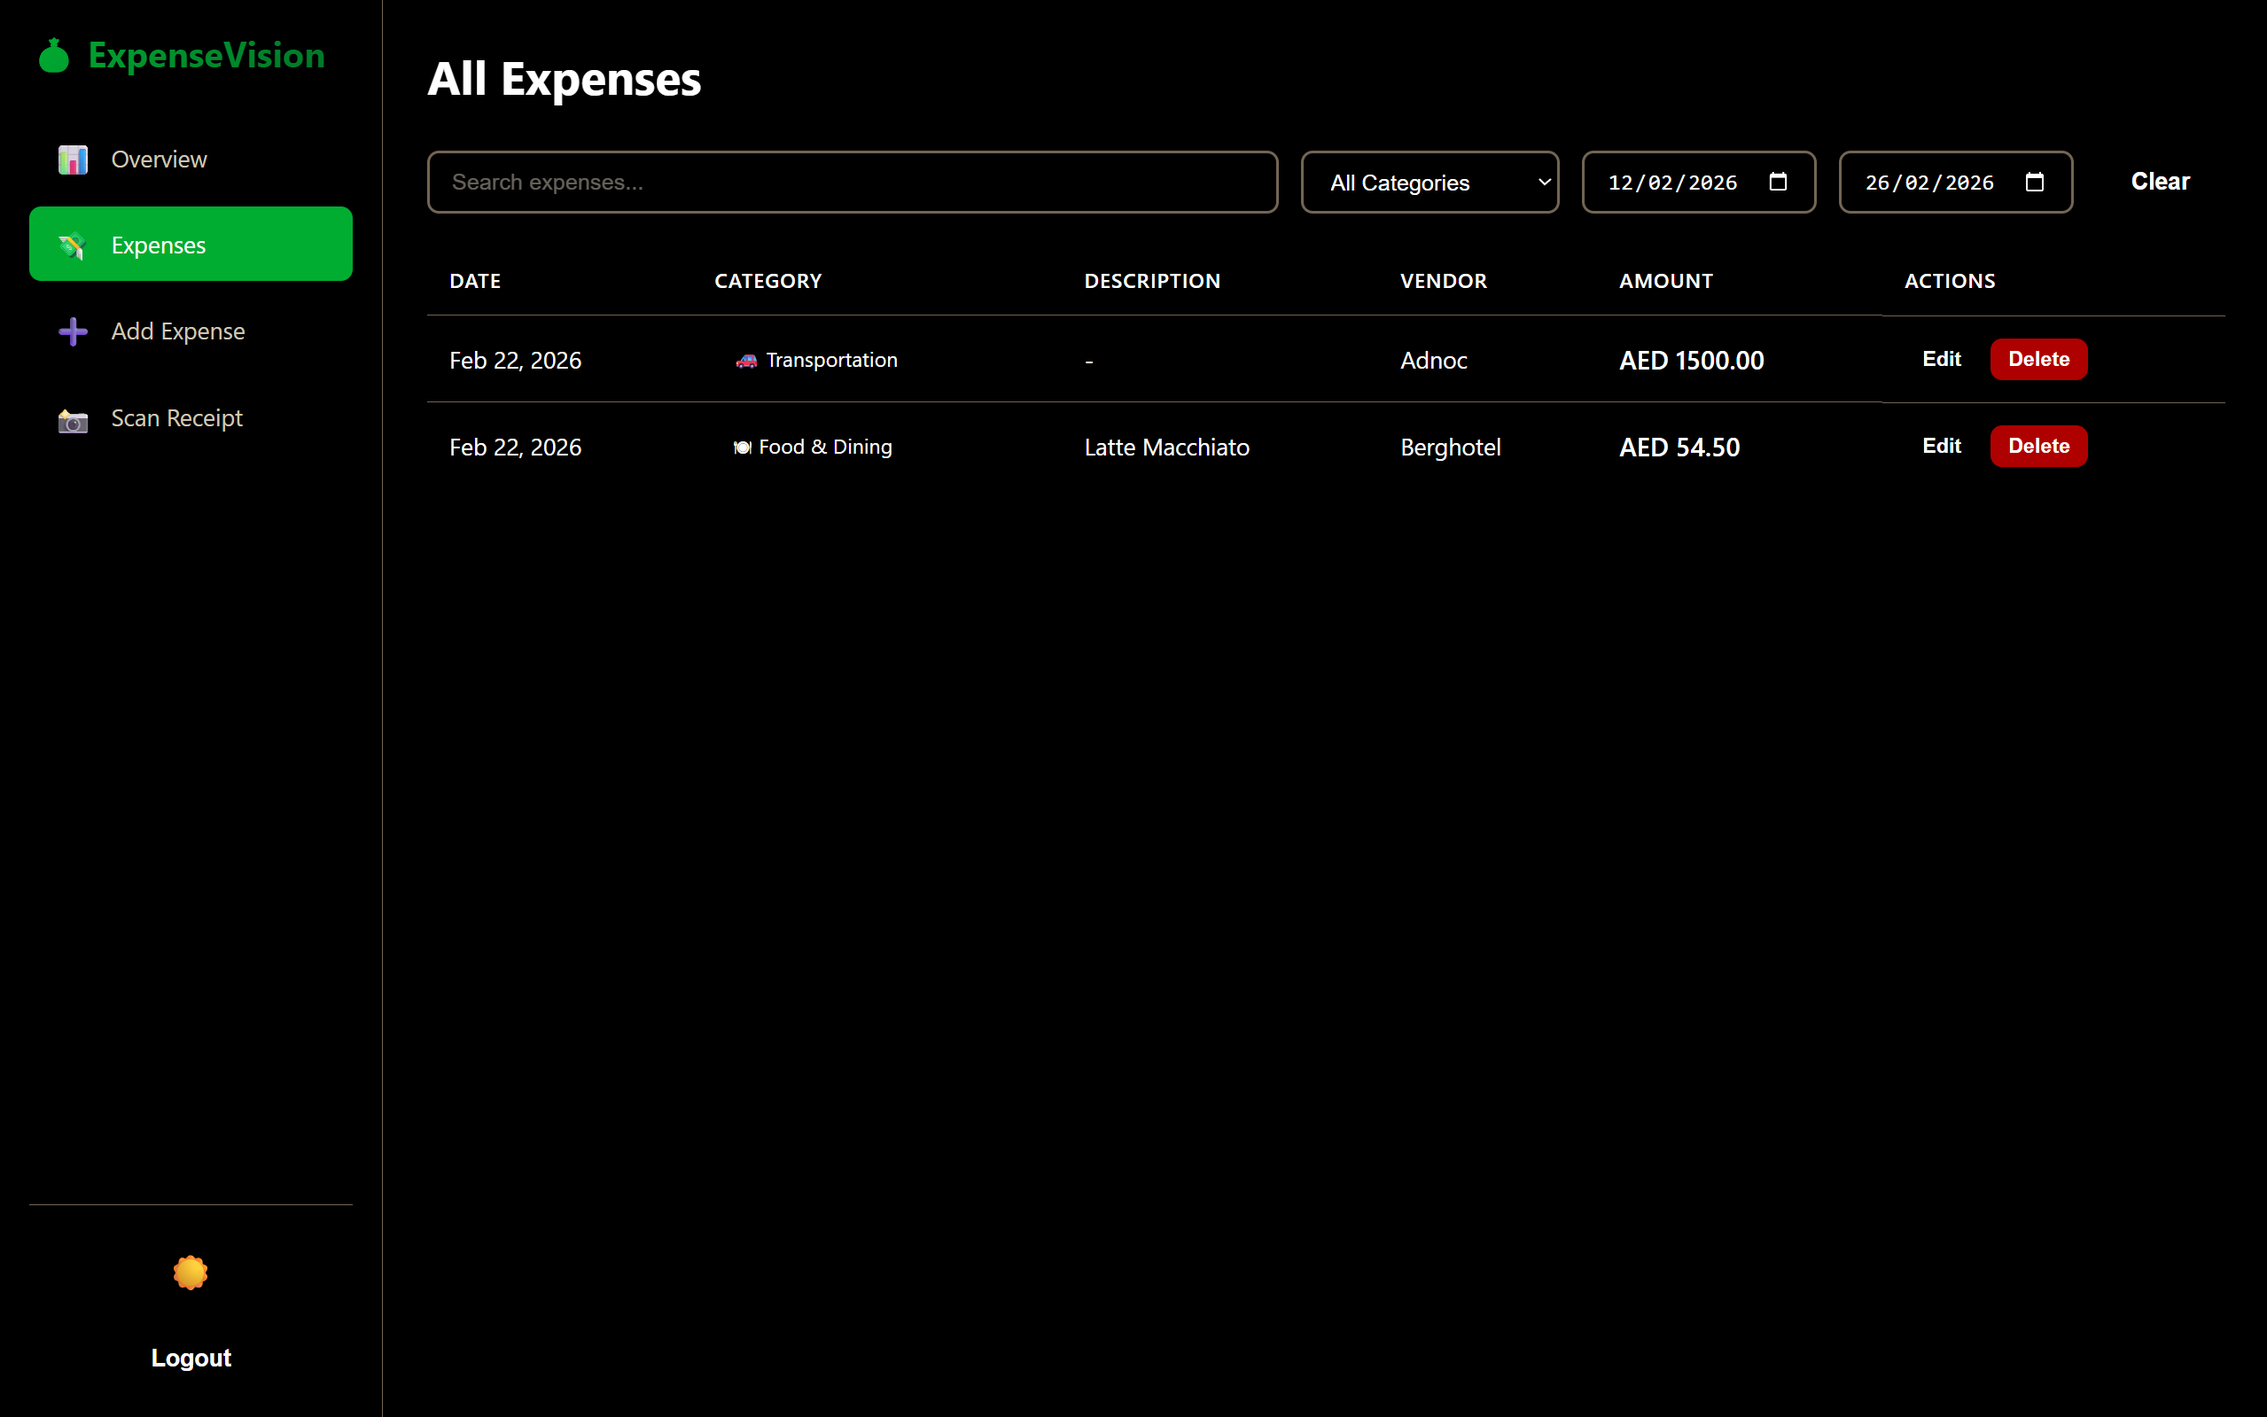
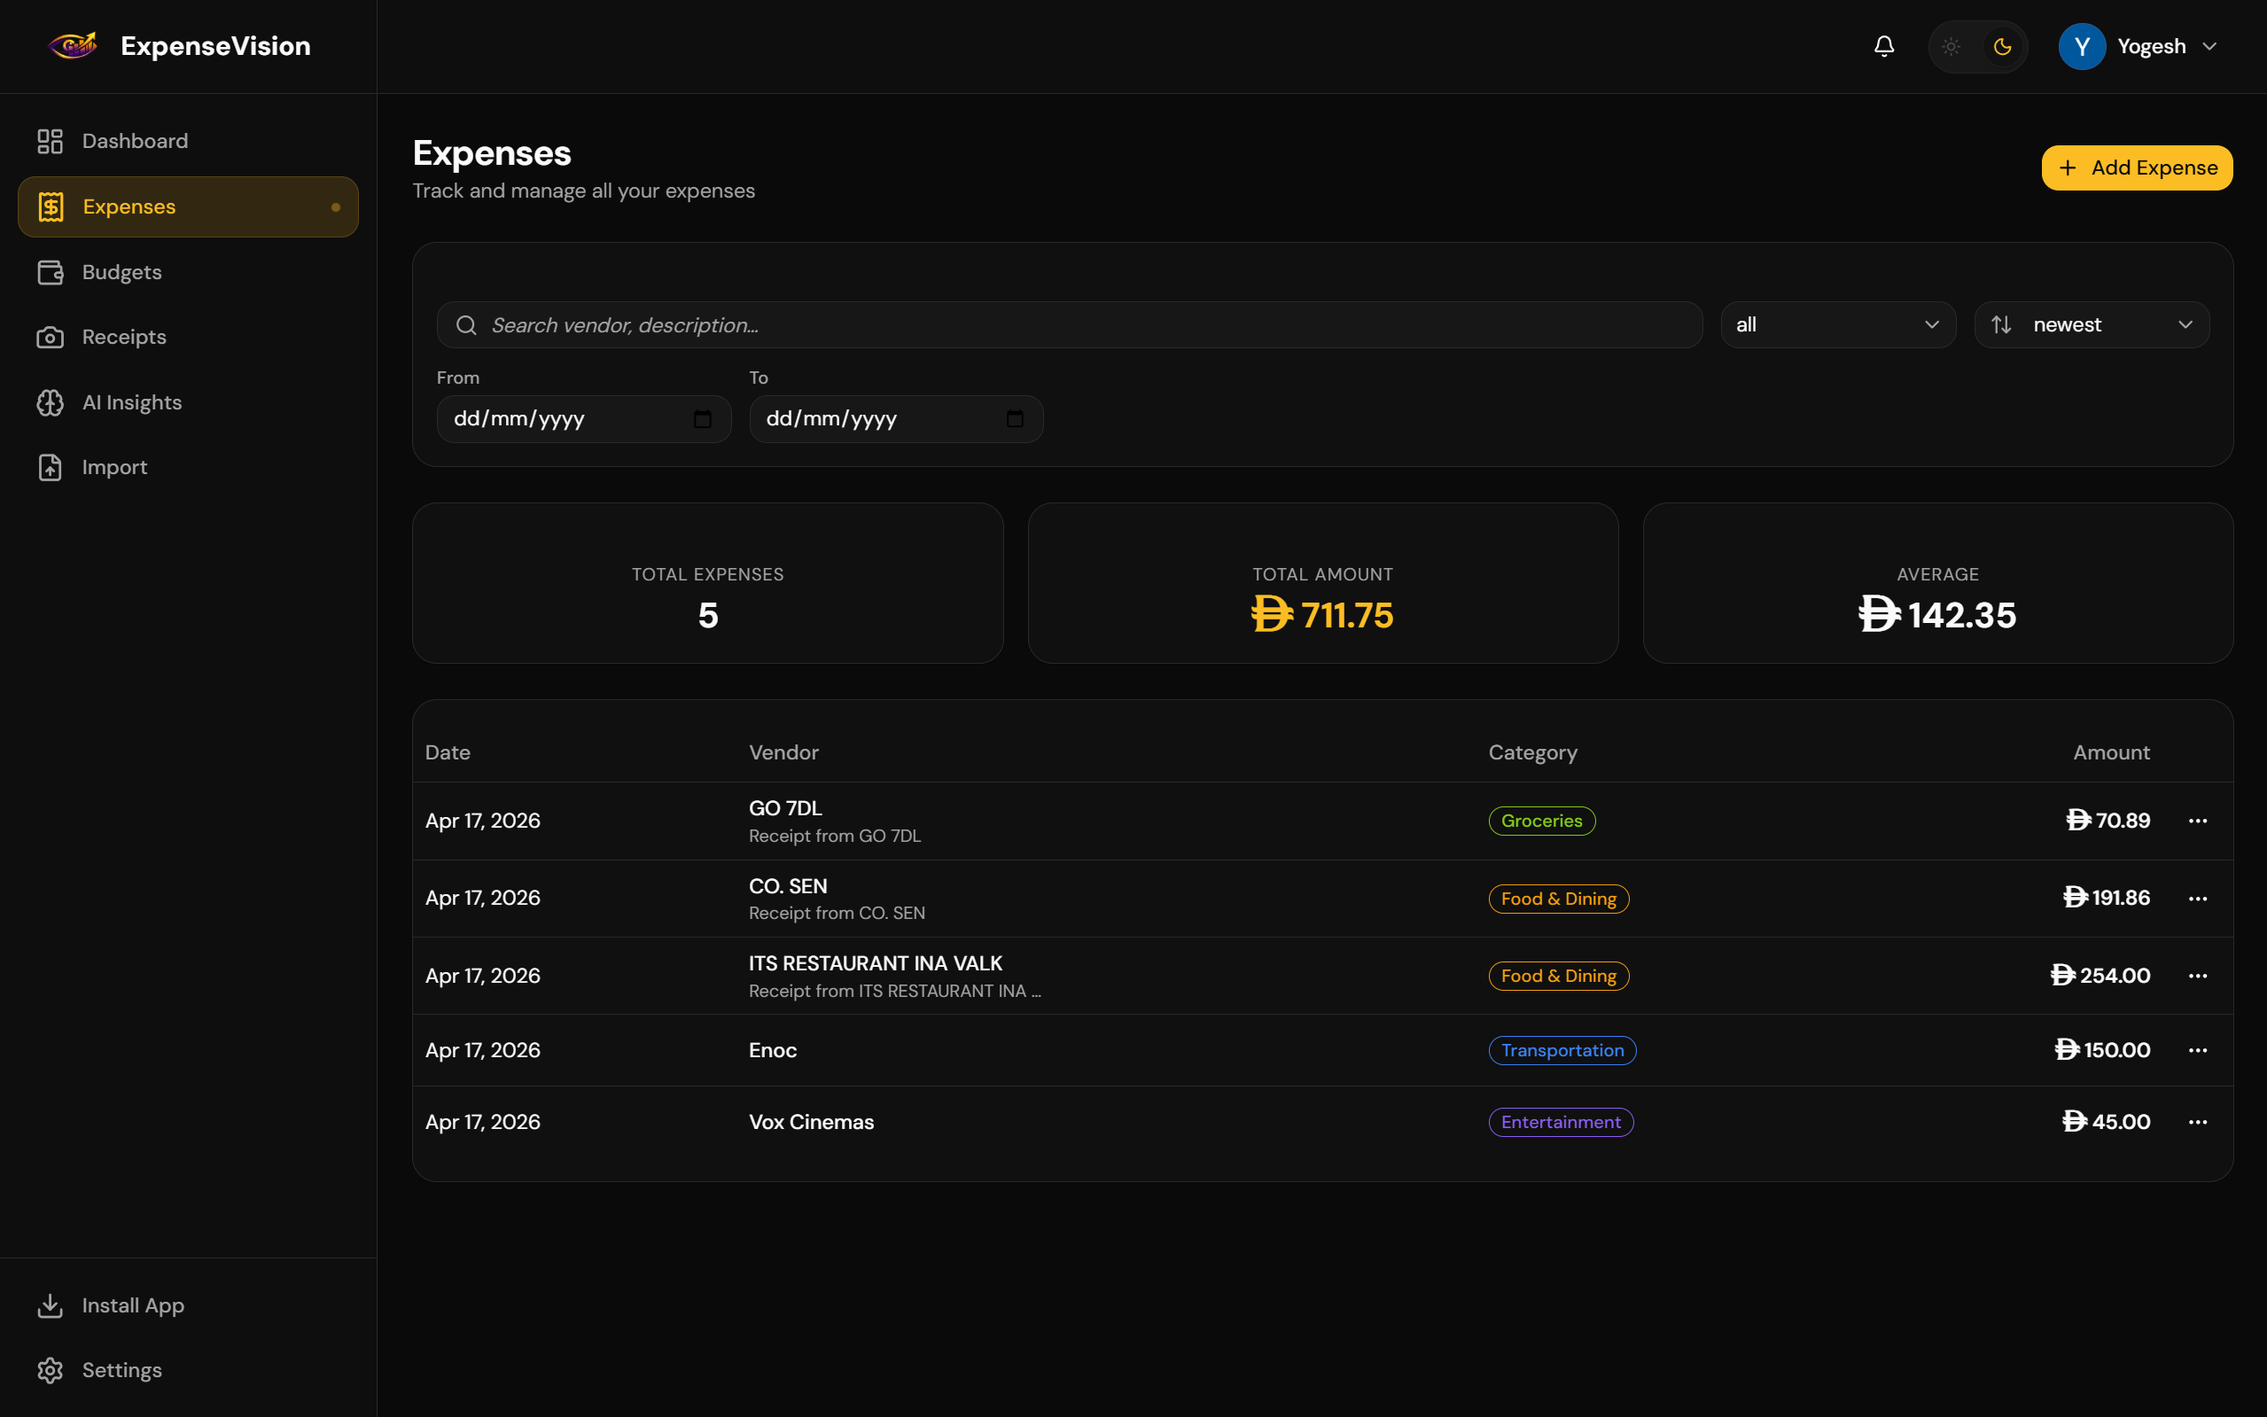
Update ExpenseVision: remove em dashes, simplify language, remove offline claims, focus on PWA

diff --git a/src/data/projectEntries.tsx b/src/data/projectEntries.tsx
@@ -112,80 +112,95 @@ export const projects: Project[] = [
     slug: "expensevision",
     title: "ExpenseVision",
     tagline:
-      "AI-powered expense tracker with receipt scanning and spending insights",
+      "AI-powered expense tracker with receipt scanning, smart budgets, and spending insights. Installable as a mobile app.",
     cardTagline:
-      "AI expense tracker with receipt scanning and budget insights",
-    featured: false,
+      "AI expense tracker you can install like a phone app. Scan receipts, set budgets, and get spending tips.",
+    featured: true,
     status: "Production",
     statusColor: "text-emerald-400 bg-emerald-500/10 border-emerald-500/20",
-    year: "2025",
+    year: "2025 – 2026",
     description:
-      "A full-stack expense management app that lets you snap or upload a receipt, automatically reads it with OCR, extracts the amount and vendor using AI, and categorizes it with a classifier that learns from your habits. Interactive Chart.js dashboards break down spending by category, month, and day. An AI coach gives personalized tips on your budget.",
+      "A personal finance app you can install on your phone or desktop like a native app. Snap a photo of any receipt and AI automatically reads the amount, vendor, date, and category. Set monthly budgets per category and get notified when you're close to your limit. Import bank statements via CSV. Ask the AI for personalized spending tips based on your real data. Built with Next.js, React, and Supabase with sign-in via email, Google, or GitHub.",
     cardDescription:
-      "Scan a receipt, let AI extract the details, auto-categorize the expense, and track your spending with clear dashboards and tips.",
+      "Snap a receipt, let AI read it, track your spending, set budgets with alerts, import bank data, and get personalized AI tips. All in an app you can install on your phone.",
     highlights: [
-      "Dual OCR pipeline: Veryfi cloud API for production speed, Tesseract local fallback so receipt scanning always works offline",
-      "AI-powered receipt parsing via DeepSeek R1 extracts amount, vendor, date, and category from raw OCR text",
-      "ML keyword classifier trained on your data that gets smarter the more you use it",
-      "AI spending insights: a DeepSeek-powered finance coach analyzes your transactions and gives actionable advice",
-      "Interactive Chart.js dashboards: category breakdown, monthly trends, and daily spending patterns",
-      "Background job + polling architecture to handle 60-90s AI response times within Render's 30s proxy timeout",
+      "AI receipt scanner tries 3 providers automatically (Veryfi, Google Gemini, OpenRouter). If one fails, the next picks up so scanning always works",
+      "AI spending coach analyzes your last 90 days and gives you a summary, savings tips, budget warnings, and spending trends",
+      "Set monthly budgets per category and get notified at 80% and again when you go over, so you never overspend by surprise",
+      "Import bank statements via CSV with automatic column detection, date/amount parsing, and duplicate warnings before import",
+      "Installable as a Progressive Web App that works like a native app on your phone with push notifications and the ability to share receipts directly to the app",
+      "Secured with 3 layers of protection: route guards, API authentication, and database-level access rules on every table, plus rate limiting on all endpoints",
     ],
     cardHighlights: [
-      "Scans receipts with Veryfi in production and Tesseract as a fallback",
-      "AI extracts vendor, amount, date, and category from OCR text",
-      "Learns from your edits to improve future auto-categorization",
-      "Shows spending charts and AI tips to help manage your budget",
+      "Snap a receipt and 3 AI providers work together to read it automatically",
+      "Set budgets per category and get alerts before you overspend",
+      "AI analyzes 90 days of spending and gives personalized tips",
+      "Install it like a phone app with push notifications and receipt sharing",
+    ],
+    metrics: [
+      { icon: <Layers size={14} />, label: "AI Providers", value: "3" },
+      { icon: <Database size={14} />, label: "Tables", value: "6" },
+      { icon: <Cpu size={14} />, label: "API Routes", value: "17" },
+      { icon: <Sparkles size={14} />, label: "AI Models", value: "5+" },
+      { icon: <Globe size={14} />, label: "PWA", value: "Installable" },
     ],
     tech: [
-      "Flask",
-      "Python",
-      "JavaScript",
-      "SQLite",
+      "Next.js 15",
+      "React 19",
+      "TypeScript",
+      "Supabase",
       "PostgreSQL",
-      "Chart.js",
-      "Tesseract OCR",
+      "Tailwind CSS v4",
       "Veryfi API",
-      "DeepSeek R1",
+      "Google Gemini",
+      "OpenRouter",
+      "Upstash Redis",
+      "Zod",
+      "Recharts",
+      "Render",
     ],
-    image: "/expensevision_img/expensevision.png",
+    image: "/expensevision_img/landing_page.png",
     gallery: [
-      { src: "/expensevision_img/expensevision.png", alt: "ExpenseVision Dashboard overview with AI spending insights and charts" },
-      { src: "/expensevision_img/expenses_page.png", alt: "Expenses list with filters and search" },
-      { src: "/expensevision_img/add_expenses_page.png", alt: "Add expense form with auto-categorization" },
-      { src: "/expensevision_img/scan_receipt_page.png", alt: "Receipt scanning with OCR and AI parsing" },
+      { src: "/expensevision_img/landing_page.png", alt: "ExpenseVision landing page" },
+      { src: "/expensevision_img/signup-login.png", alt: "Sign up and login with email, Google, or GitHub" },
+      { src: "/expensevision_img/dashboard_page.png", alt: "Dashboard with spending charts and recent activity" },
+      { src: "/expensevision_img/expenses_page.png", alt: "Expense list with filters and search" },
+      { src: "/expensevision_img/budgets_page.png", alt: "Budget progress bars with spending alerts" },
+      { src: "/expensevision_img/recipts_page.png", alt: "Receipt scanner with AI-extracted details" },
+      { src: "/expensevision_img/ai_insights_page.png", alt: "AI spending insights and savings tips" },
     ],
     liveUrl: "https://expensevision.tech",
     githubUrl: "https://github.com/Yogesh-VG0/ExpenseVision",
     caseStudy: {
       problem:
-        "Manual expense tracking is tedious and error-prone. Receipt data is unstructured text that's difficult to parse reliably. Users need automated extraction and intelligent categorization, but most tools are either too complex or too expensive.",
+        "Tracking expenses manually is tedious and people forget. Receipts pile up. Most expense apps either can't read receipts well, don't warn you about budgets, or cost money. People need something simple that does the work for them.",
       approach:
-        "Built a dual OCR pipeline (Veryfi cloud + Tesseract local) with AI-powered parsing via DeepSeek R1. Added an ML keyword classifier that learns from user behavior to auto-categorize future expenses. Designed a background job architecture to handle long AI response times within hosting constraints.",
+        "Built a full-stack web app with Next.js and Supabase that handles everything: user accounts, expense storage, receipt file uploads, and AI processing. Designed the receipt scanner to try 3 different AI providers in sequence so it works reliably. Made it installable as a phone app so users can access it from their home screen and get push notifications.",
       architecture:
-        "Flask monolith serving a responsive vanilla JS frontend. Dual-database support with SQLite for local development and PostgreSQL (Supabase) for production. The AI layer uses DeepSeek R1 via OpenRouter for both receipt parsing and spending insights, with a background threading pattern to handle 60-90s response times within Render's 30s proxy timeout.",
+        "Next.js handles both the frontend and 17 backend API endpoints. Supabase provides the database (PostgreSQL), user authentication (email + Google + GitHub), and private file storage for receipts. The receipt scanner tries Veryfi first, then Google Gemini, then OpenRouter as a fallback. AI insights use Gemini to analyze spending patterns. Upstash Redis rate-limits every endpoint to prevent abuse. Deployed on Render.",
       architectureCards: [
-        { label: "Backend", detail: "Flask 3.0 with Gunicorn handling auth, expense CRUD, OCR processing, AI integration, and CSV export", icon: "🐍" },
-        { label: "Database", detail: "SQLite (local) / PostgreSQL via Supabase (production) for users, expenses, categories, and AI insights tables", icon: "🗄" },
-        { label: "OCR Engine", detail: "Dual pipeline with Veryfi cloud API for speed and Tesseract local fallback for offline reliability", icon: "📷" },
-        { label: "AI Layer", detail: "DeepSeek R1 via OpenRouter, parsing receipt text into structured JSON and generating personalized spending insights", icon: "🧠" },
-        { label: "ML Classifier", detail: "Keyword-based auto-categorizer that trains on your data and learns new category associations from every expense you add", icon: "🏷" },
-        { label: "Analytics", detail: "Chart.js 4.x dashboards with interactive doughnut, bar, and line charts for category, monthly, and daily spending", icon: "📊" },
+        { label: "Frontend", detail: "Next.js 15 + React 19 with server-side rendering for fast page loads and interactive dashboards with Recharts", icon: "🖥" },
+        { label: "Backend", detail: "17 API endpoints handling expenses, budgets, receipt scanning, AI insights, notifications, CSV import, and user accounts", icon: "🔌" },
+        { label: "Database", detail: "Supabase PostgreSQL with 6 tables, row-level security on every table, and 7 schema migrations", icon: "🗄" },
+        { label: "Receipt AI", detail: "3 providers in sequence: Veryfi for speed, Google Gemini for accuracy, and OpenRouter as a free fallback. Scanning always works.", icon: "📷" },
+        { label: "Spending AI", detail: "Google Gemini analyzes 90 days of your spending and returns personalized tips, budget warnings, and trend insights", icon: "🧠" },
+        { label: "Installable App", detail: "Progressive Web App you can install on your phone with push notifications, receipt sharing from other apps, and home screen access", icon: "📱" },
       ],
       howItWorks: [
-        { title: "Snap or Upload", description: "Drag-and-drop or click to upload a receipt image. The file is sent to the OCR engine (Veryfi cloud API in production, Tesseract locally) which extracts raw text from the image." },
-        { title: "AI Parses the Receipt", description: "The raw OCR text is sent to DeepSeek R1 with a structured prompt asking it to extract amount, vendor, date, category, and description as JSON. If AI is unavailable, regex patterns handle the most common receipt formats as a fallback." },
-        { title: "Smart Categorization", description: "A keyword-based ML classifier predicts the expense category based on vendor name and description. It trains on every expense you add, and the more you use it, the smarter it gets at categorizing your spending." },
-        { title: "AI Spending Coach", description: "On demand, the system sends your last 200 expenses and category totals to DeepSeek R1, which acts as a friendly finance coach: summarizing what stands out, giving actionable tips, and encouraging progress. Uses background threading with frontend polling to handle the 60-90s response time." },
+        { title: "Snap a Receipt", description: "Take a photo, pick a file, or share an image from another app. The image is compressed and validated before uploading to make sure it's a real image file." },
+        { title: "AI Reads It", description: "The server sends the receipt through up to 3 AI providers. If the first one fails or gives a bad result, the next one tries automatically. You get the amount, vendor, date, and category extracted." },
+        { title: "Review and Save", description: "The AI-extracted details are pre-filled into an expense form. You can review, edit if needed, and save. The receipt stays attached to the expense for reference." },
+        { title: "Budget Alerts", description: "Set a monthly spending limit for any category. When you hit 80%, you get a warning. When you go over, you get an alert. Push notifications keep you informed even when you're not in the app." },
+        { title: "AI Spending Tips", description: "Ask the AI to analyze your spending. It looks at your last 90 days, finds patterns, and gives you a summary, savings tips, and warnings about categories where you're overspending." },
       ],
       challenges: [
-        "Render free tier has a ~30s proxy timeout, but AI spending insights can take 60-90+ seconds. Solved with background job + polling architecture (POST starts thread, GET polls every 4s)",
-        "OCR accuracy varies dramatically with image quality. Dual pipeline (Veryfi cloud + Tesseract local) provides reliable fallback with AI-powered parsing on top",
-        "AI rate limits on free tier (20 req/min, 50 req/day). Implemented retry with 60s backoff on 429 responses and response caching in database",
-        "Database portability: built a SQL abstraction layer that converts ? placeholders to %s for PostgreSQL, enabling seamless SQLite/PostgreSQL switching",
+        "Making receipt scanning reliable: each AI provider has different response formats and error modes, so each one needed its own parsing logic with graceful fallthrough to the next provider",
+        "Handling diverse bank CSV formats: built auto-detection for column names, support for multiple date and currency formats, and a scoring system to flag likely duplicate entries before import",
+        "Securing user data with 3 independent layers: route guards redirect unauthenticated users, every API endpoint verifies the session, and the database itself rejects unauthorized queries",
+        "Rate limiting every endpoint: 8 different rate limit tiers prevent abuse across AI calls, data mutations, imports, and account actions, with graceful fallback if the rate limiter is unavailable",
       ],
       results:
-        "Full-featured expense tracker deployed on Render with AI-powered receipt scanning, auto-categorization, personalized spending insights, and interactive Chart.js analytics dashboards. Supports drag-and-drop upload, CSV export, date/category filters, dark/light theme, and fully responsive mobile layout.",
+        "Live at expensevision.tech. A full-featured personal finance app with AI receipt scanning across 3 providers, monthly budgets with push alerts, CSV bank import, AI spending insights, and installable PWA experience. Serves 17 API endpoints across 6 database tables with 3-layer security and rate limiting on every route.",
     },
   },
   {
